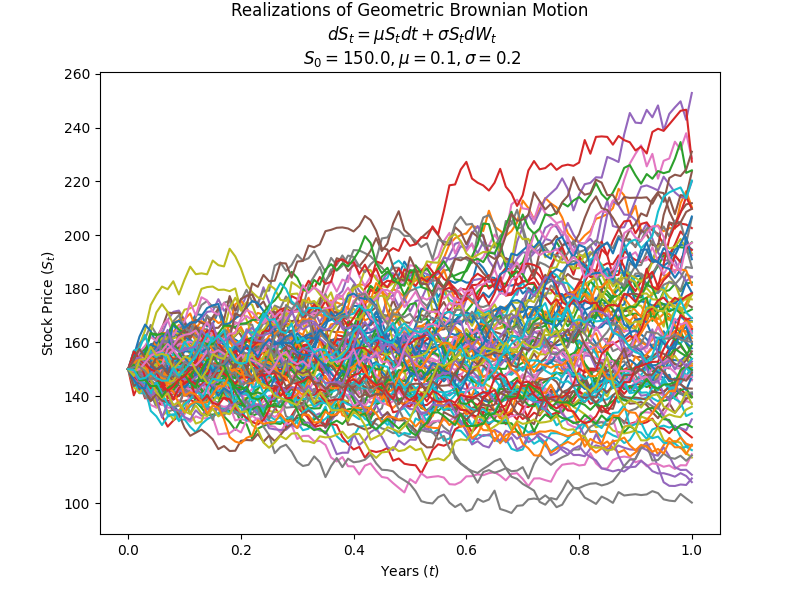
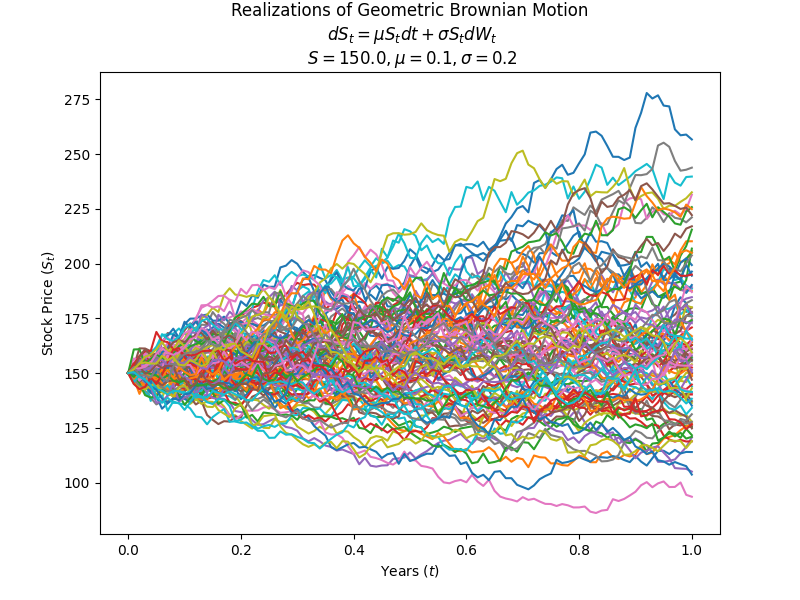
Finished monte carlo

diff --git a/templates/MonteC.html b/templates/MonteC.html
@@ -4,7 +4,8 @@
     <meta charset="UTF-8">
     <meta name="viewport" content="width=device-width, initial-scale=1.0">
     <link rel="stylesheet" href="{{ url_for('static', filename='MonteC.css') }}">
-    <title>Document</title>
+    <script src="{{ url_for('static', filename='montescript.js') }}" defer></script>
+    <title>Monte Carlo</title>
 </head>
 <body>
     <div class="header">
@@ -18,7 +19,7 @@
         <div class="OptionsPricingCalc">
             <!-- Form for Calculating Option Prices -->
             <form id="calculateForm" method="POST" action="/MonteC">
-                <h1>Black-Scholes Option Pricing Model</h1>
+                <h1>Monte Carlo Pricing Simulation</h1>
                 <div class="ResultsDisplay">
                     <div class="result-card call">
                         <div class="result-label">CALL PRICE</div>
@@ -30,28 +31,28 @@
                     </div>
                 </div>
                 <label for="stockPrice">Stock Price (S):</label>
-                <input type="number" id="stockPrice" name="stockPrice" value="{{ stockPrice }}" step="0.01" placeholder="Enter Current Price">
+                <input class="dp" type="number" id="stockPrice" name="stockPrice" value="{{ stockPrice }}" step="0.01" placeholder="Enter Current Price">
 
                 <label for="strikePrice">Strike Price (X):</label>
-                <input type="number" id="strikePrice" name="strikePrice" value="{{ strikePrice }}" step="0.01" placeholder="Enter Strike Price">
+                <input class="dp" type="number" id="strikePrice" name="strikePrice" value="{{ strikePrice }}" step="0.01" placeholder="Enter Strike Price">
 
                 <label for="RFIR">Risk-Free Interest Rate (r):</label>
-                <input type="number" id="RFIR" name="RFIR" value="{{ RFIR }}" step="0.01" placeholder="Enter the Risk-Free Interest Rate">
+                <input class="dp" type="number" id="RFIR" name="RFIR" value="{{ RFIR }}" step="0.01" placeholder="Enter the Risk-Free Interest Rate">
 
                 <label for="expiration">Time to Expire in Years (T):</label>
-                <input type="number" id="expiration" name="expiration" value="{{ expiration }}" step="0.01" placeholder="Enter the Expiration Time">
+                <input class="dp" type="number" id="expiration" name="expiration" value="{{ expiration }}" step="0.01" placeholder="Enter the Expiration Time">
 
                 <label for="volatility">Volatility (σ):</label>
-                <input type="number" id="volatility" name="volatility" value="{{ volatility }}" step="0.01" placeholder="Enter Specified Volatility">
+                <input class="dp" type="number" id="volatility" name="volatility" value="{{ volatility }}" step="0.01" placeholder="Enter Specified Volatility">
 
                 <label for="drift">Drift Term (μ):</label>
-                <input type="number" id="drift" name="drift" value="{{ drift }}" step="0.01" placeholder="Enter a Specified Drift Term">
+                <input class="dp" type="number" id="drift" name="drift" value="{{ drift }}" step="0.01" placeholder="Enter a Specified Drift Term">
                 
                 <label for="steps">Number of Discrete Time Steps (n):</label>
-                <input type="number" id="steps" name="steps" value="{{ steps }}" step="0.01" placeholder="Enter specified Discrete Time Steps">
+                <input class="nodp" type="number" id="steps" name="steps" value="{{ steps }}" step="1" placeholder="Enter specified Discrete Time Steps">
 
-                <label for="simulations">Number of simulations (M):</label>
-                <input type="number" id="simulations" name="simulations" value="{{ simulations }}" step="0.01" placeholder="Enter the number of Simulations">
+                <label for="simulations">Number of Simulations (M):</label>
+                <input class="nodp" type="number" id="simulations" name="simulations" step="1" value="{{ simulations }}" placeholder="Enter the number of Simulations">
                 
                 <button type="submit">CALCULATE</button>
             </form>

diff --git a/static/montescript.js b/static/montescript.js
@@ -1,0 +1,16 @@
+const calcOptions = document.getElementById("calculateForm");
+const inputs1 = calcOptions.querySelectorAll(".dp");
+
+inputs1.forEach((element) => {
+    const defaultValue = element.defaultValue
+    element.addEventListener("change",()=>{
+        value = parseFloat(element.value)
+        if(value<0){
+            alert("Please enter a positive number")
+            element.value = defaultValue; 
+            return;
+        }
+        value = value.toFixed(2)
+        element.value = value
+    })
+})

diff --git a/templates/BlackSL.html b/templates/BlackSL.html
@@ -4,7 +4,7 @@
     <meta charset="UTF-8">
     <meta name="viewport" content="width=device-width, initial-scale=1.0">
     <link rel="stylesheet" href="{{ url_for('static', filename='BlackSL.css') }}">
-    <script src="{{ url_for('static', filename='myscript.js') }}" defer></script>
+    <script src="{{ url_for('static', filename='blacksl.js') }}" defer></script>
     <title>Black-Scholes</title>
 </head>
 <body>

diff --git a/static/MonteC.css b/static/MonteC.css
@@ -162,11 +162,12 @@ input[type="number"]:focus, select:focus {
 .GBMGraph {
     display: flex;
     flex-direction: column;
-    justify-content: center;
+    justify-content: flex-start;
     background-color: #232531; /* Matches other dark elements */
     border-radius: 9px;
     padding: 20px;
     gap: 10px;
+    width: 100%;
     box-shadow: 0 4px 8px rgba(0, 0, 0, 0.3);
 }
 

diff --git a/templates/index.html b/templates/index.html
@@ -9,7 +9,7 @@
 <body>
     <div class="pricingModelButtons">
         <button onclick="window.location.href='/BlackSL'">Black-Scholes Pricing Model</button>
-        <button onclick="window.location.href='/MonteC'">Monte Carlo Simulation</button>
+        <button onclick="window.location.href='/MonteC'">Monte Carlo Pricing Simulation</button>
     </div>
 </body>
 </html>

diff --git a/app.py b/app.py
@@ -30,7 +30,6 @@ maxSP = 180
 minVol = 0.1
 maxVol = 0.3
 colorPalette = "RdYlGn"
-
 M = 100
 n = 100
 mu = 0.1
@@ -64,6 +63,8 @@ def generateHeatMap(prices, stockrange, volrange, title, colorpal, filename):
     plt.close()
 
 def simulatePath(S, T, sigma, M, n, mu):
+    M = int(M)
+    n = int(n)
     dt = T/n
     random_changes = np.random.normal(0,np.sqrt(dt),size=(M,n)).T
     St = np.exp(
@@ -96,6 +97,8 @@ def putMC(S, X, T, r, sigma, M, n, mu):
     return put_price
 
 def generateGBM(S, T, sigma, M, n, mu):
+    M = int(M)
+    n = int(n)
     St = simulatePath(S, T, sigma, M, n, mu)
     time = np.linspace(0,T,n+1)
     tt =  np.full(shape=(M,n+1), fill_value=time).T
@@ -105,7 +108,7 @@ def generateGBM(S, T, sigma, M, n, mu):
     plt.xlabel("Years $(t)$")
     plt.ylabel("Stock Price $(S_t)$")
     plt.title(
-        "Realizations of Geometric Brownian Motion\n $dS_t = \mu S_t dt + \sigma S_t dW_t$\n $S_0 = {0}, \mu = {1}, \sigma = {2}$".format(S, mu, sigma)
+        "Realizations of Geometric Brownian Motion\n $dS_t = \mu S_t dt + \sigma S_t dW_t$\n $S = {0}, \mu = {1}, \sigma = {2}$".format(S, mu, sigma)
     )
     plt.savefig(os.path.join(app.config['MC_FOLDER'], "gbm_graph.png"))
     plt.close()
@@ -127,25 +130,9 @@ def MonteC():
     n = 100
     mu = 0.1
     if request.method == "GET":
-
         call_price = callMC(S, X, T, r, sigma, M, n, mu)
         put_price = putMC(S, X, T, r, sigma, M, n, mu)
         generateGBM(S, T, sigma, M, n, mu)
-
-        return render_template(
-        "MonteC.html",
-        gbm_graph= "gbm_graph.png",
-        call_price=f"${round(call_price, 2):.2f}",
-        put_price=f"${round(put_price, 2):.2f}",
-        stockPrice=f"{S:.2f}",
-        strikePrice=f"{X:.2f}",
-        RFIR=f"{r:.2f}",
-        expiration=f"{T:.2f}",
-        volatility=f"{sigma:.2f}",
-        drift=f"{mu:.2f}",
-        steps=f"{n:.2f}",
-        simulations=f"{M:.2f}"
-    )
     else:
         S = getFormValue(request.form, "stockPrice", S)
         X = getFormValue(request.form, "strikePrice", X)
@@ -153,14 +140,14 @@ def MonteC():
         T = getFormValue(request.form, "expiration", T)
         sigma = getFormValue(request.form, "volatility", sigma)
         mu = getFormValue(request.form,"drift",mu)
-        n = getFormValue(request.form,"steps",n)
-        M = getFormValue(request.form,"simulations",M)
+        n = request.form.get("steps",n)
+        M = request.form.get("simulations",M)
+
 
         call_price = callMC(S, X, T, r, sigma, M, n, mu)
         put_price = putMC(S, X, T, r, sigma, M, n, mu)
         generateGBM(S, T, sigma, M, n, mu)
-
-        return render_template(
+    return render_template(
         "MonteC.html",
         gbm_graph= "gbm_graph.png",
         call_price=f"${round(call_price, 2):.2f}",
@@ -171,8 +158,8 @@ def MonteC():
         expiration=f"{T:.2f}",
         volatility=f"{sigma:.2f}",
         drift=f"{mu:.2f}",
-        steps=f"{n:.2f}",
-        simulations=f"{M:.2f}"
+        steps=f"{n}",
+        simulations=f"{M}"
         )
 
 
